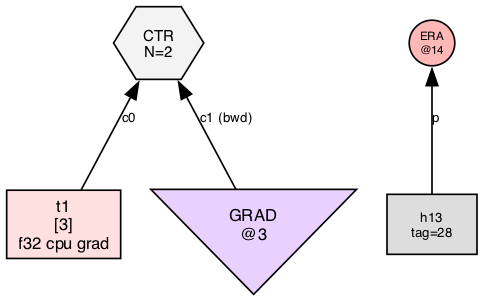
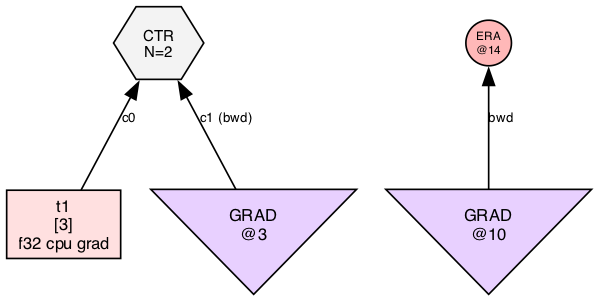
grad: ERA-consumes-TAG_GF/GB renders as GRAD cell edge, not raw heap
Adds the TAG_GF / TAG_GB branch to EMIT_ERA_NODE's payload dispatch so
that when an ERA node consumes a GRAD projection (e.g. via
thvm_spawn_detached_era on an unused fwd port in the bundle adapter),
the renderer emits:

    grad%llu -> era%llu [label="fwd"|"bwd"]

instead of falling through to the raw h%llu [tag=27/28] debug box.

Mirrors the fix that was already in EMIT_DUP_CHAIN. chained_compute
step-0 dump now shows the fwd-sink as a clean GRAD→ERA edge.

24/24 PASS.

diff --git a/src/debug/dump.c b/src/debug/dump.c
@@ -1444,6 +1444,11 @@ static void thvm_heap_dot_root(TinyHVM *ctx, const char *path, Term root) {
                     fprintf(f, "  ref%llu -> era%llu [label=\"p\"%s];\n", (unsigned long long)_ev, (unsigned long long)(epos), EDGE_HL_LABEL_TERM(epos, _et)); \
                 } else if (_st == TAG_VAR) { \
                     EMIT_VAR_OR_RESOLVED_TO_TARGET(_src, term_val(_src), "era", (epos), "p", DOT_HL_MATCH_TERM(epos, _et), ""); \
+                } else if (_st == TAG_GF || _st == TAG_GB) { \
+                    EMIT_GRAD_CELL(term_val(_src)); \
+                    const char *_gport = (_st == TAG_GF) ? "fwd" : "bwd"; \
+                    fprintf(f, "  grad%llu -> era%llu [label=\"%s\"%s];\n", \
+                            (unsigned long long)term_val(_src), (unsigned long long)(epos), _gport, EDGE_HL_LABEL_TERM(epos, _et)); \
                 } else if (dot_visible_heap_loc_tag(_st)) { \
                     fprintf(f, "  n%llu -> era%llu [label=\"p\"%s];\n", (unsigned long long)term_val(_src), (unsigned long long)(epos), EDGE_HL_LABEL_TERM(epos, _et)); \
                 } else if (_st == TAG_NUM) { \
